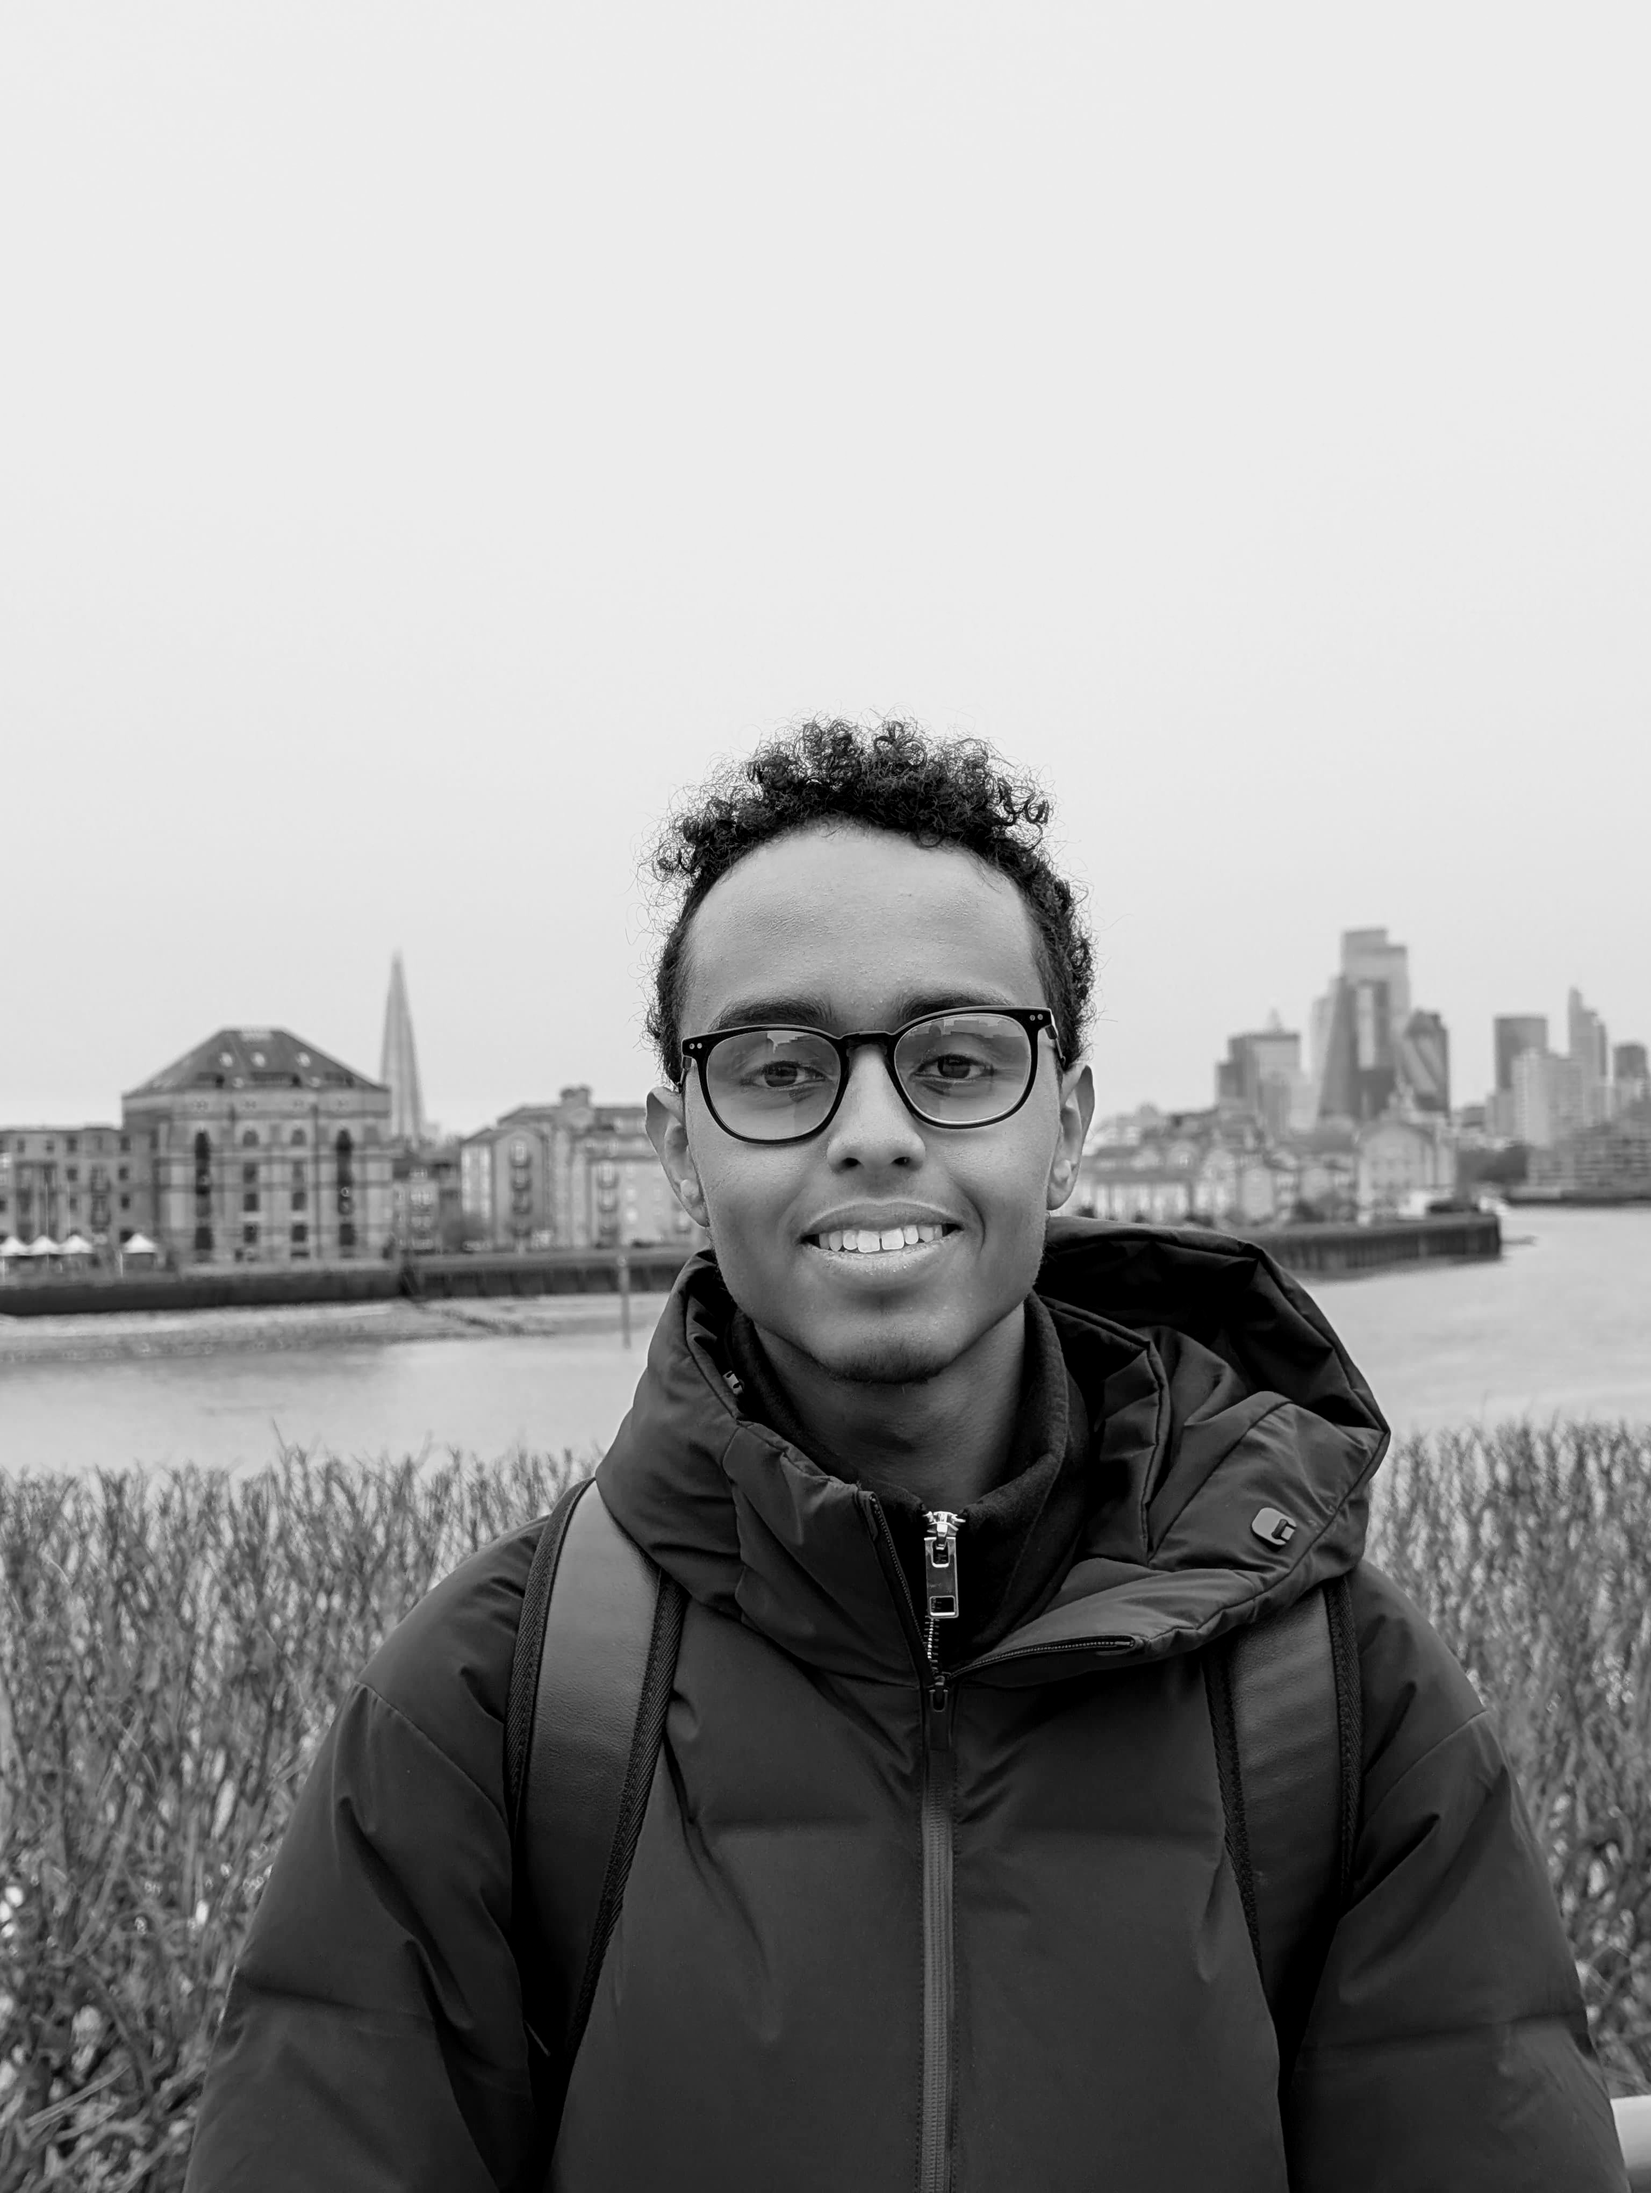
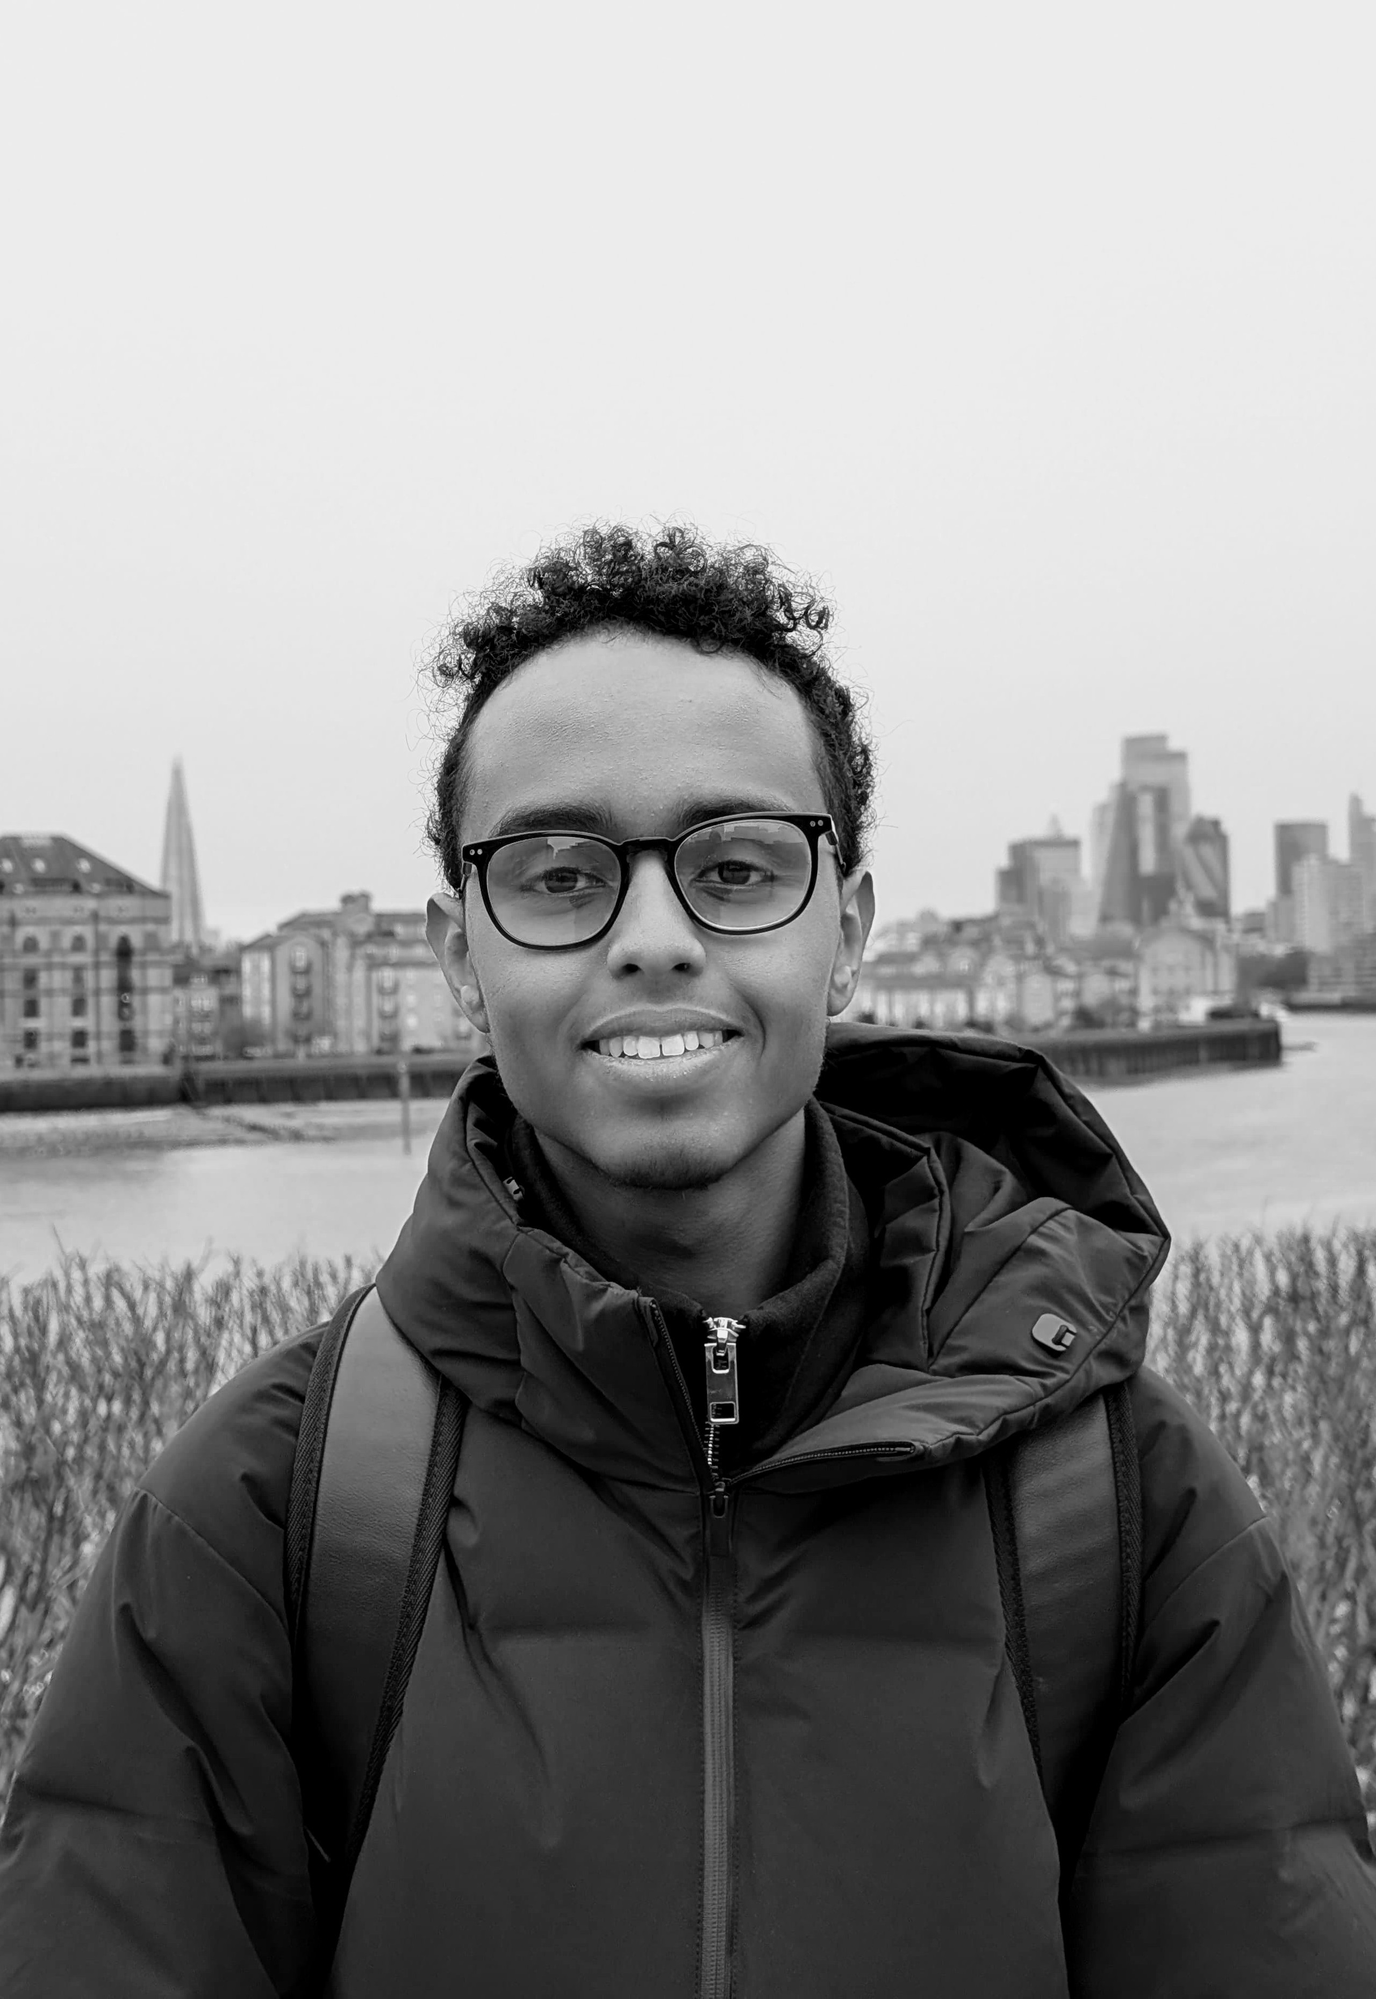
refactor: update text for clarity, adjust layout and styles across components

diff --git a/src/app/blogs/page.jsx b/src/app/blogs/page.jsx
@@ -6,7 +6,7 @@ export default function Blogs() {
     <div className="lg:pr-[25%] lg:pl-[25%]  pl-[7%] pr-[7%] flex justify-center mb-[20px] lg:h-[300px] h-[370px]  ">
         <BlogPreview
           heading="Falling at the final hurdle"
-          synopsis="I wanted it. I needed it. I worked towards it. I did not get it. The inquest should not begin now. It will begin when I have all the information and the sadness subsides. However, putting thoughts into writing I think does help a bit."
+          synopsis="I wanted it. I needed it. I worked towards it. I did not get it. The inquest should not begin now. It should begin when I have all the information. When the sadness finally subsides. However, putting thoughts into writing I think does help a bit."
           date="13th Feb 2025"
           href="blogs/13thfeb"
         />
@@ -14,7 +14,7 @@ export default function Blogs() {
       <div className="lg:pr-[25%] lg:pl-[25%]  pl-[7%] pr-[7%] flex justify-center mb-[20px] lg:h-[300px] h-[370px]  ">
         <BlogPreview
           heading="The end of January"
-          synopsis="This month has felt the weirdest out of the last 18 months. I just finished a 3-month project and I feel like I have stepped right into chaos.I still have structure in my days, but this job could not come any sooner."
+          synopsis="This month has felt the weirdest out of the last 18 . I just finished a 3-month project and I feel like I have stepped right into chaos.I still have structure in my days, but this job could not come soon enough."
           date="30th Jan 2025"
           href="blogs/endOfJan"
         />

diff --git a/src/components/ProjectCard/ProjectCard.jsx b/src/components/ProjectCard/ProjectCard.jsx
@@ -9,7 +9,7 @@ export default function ProjectCard({
   link
 }) {
   return (
-    <div className=" group rounded-[30px] grid grid-cols-2 p-[20px] bg-white h-[300px] lg:w-[500px] w-[350px]  gap-7  hover:shadow-xl transition-shadow duration-200">
+    <div className=" group rounded-[30px] grid grid-cols-2 p-[20px] bg-white h-[300px] lg:w-[500px] w-[350px]  gap-7  hover:shadow-xl transition-shadow duration-200 border ">
       <div className="flex-col h-[100%]">
         <div className="h-[85%] flex items-center justify-center ">
           <img

diff --git a/src/app/projects/page.jsx b/src/app/projects/page.jsx
@@ -2,8 +2,8 @@ import ProjectCard from "@/components/ProjectCard/ProjectCard";
 
 export default function Projects() {
   return (
-    <div className="flex lg:grid lg:grid-cols-2 flex-col gap-9 justify-center items-center lg:p-0 pl-[7%] pr-[7%] ">
-      <ProjectCard
+    <div className="flex lg:justify-evenly flex-col lg:flex-row items-center gap-9  ">
+      <ProjectCard 
         projectImage="/playpal.png"
         stack={["/stream.png", "/next.png", "supa.png"]}
         projectName="PlayPal"

diff --git a/src/app/blogs/13thfeb/page.jsx b/src/app/blogs/13thfeb/page.jsx
@@ -22,7 +22,7 @@ export default function GoodApple() {
       </p>
 
       <p className="mb-[19px]">
-        The path forward looks less brighter than it did a few days ago. But I
+        The path forward looks less bright than it did a few days ago. But I
         wait. I wait for the feedback to improve. To pick myself up, dust my
         self down and come back a stronger and more improved candidate. And if I
         fall back again, I repeat. Repeat and then repeat again.

diff --git a/src/components/ProfileImage/ProfileImage.jsx b/src/components/ProfileImage/ProfileImage.jsx
@@ -1,7 +1,7 @@
 export default function ProfileImage() {
   return (
     <div className='lg:w-full lg:h-full h-[208px] rounded-[30px] overflow-hidden flex justify-center w-[100%]'>
-      <img src="/ProfileImage.jpg" className="h-full lg:w-full w-[100%] rounded-[30px] scale-125 "></img>
+      <img src="/ProfileImage.jpg" className="h-full lg:w-full w-[100%] rounded-[30px] scale-110 "></img>
     </div>
   );
 }

diff --git a/src/app/globals.css b/src/app/globals.css
@@ -25,11 +25,20 @@ body {
 }
 
 main{
-  padding:4% 11% 
+  padding:4% 10% 
+}
+
+@media (min-width: 1920px) {
+  main{
+  padding-left: 20%;
+  padding-right:20%;
+  }
 }
 
 @media (max-width: 640px) {
   main {
-    padding: 11% 0;
+    padding: 150px 0;
   }
 }
+
+
